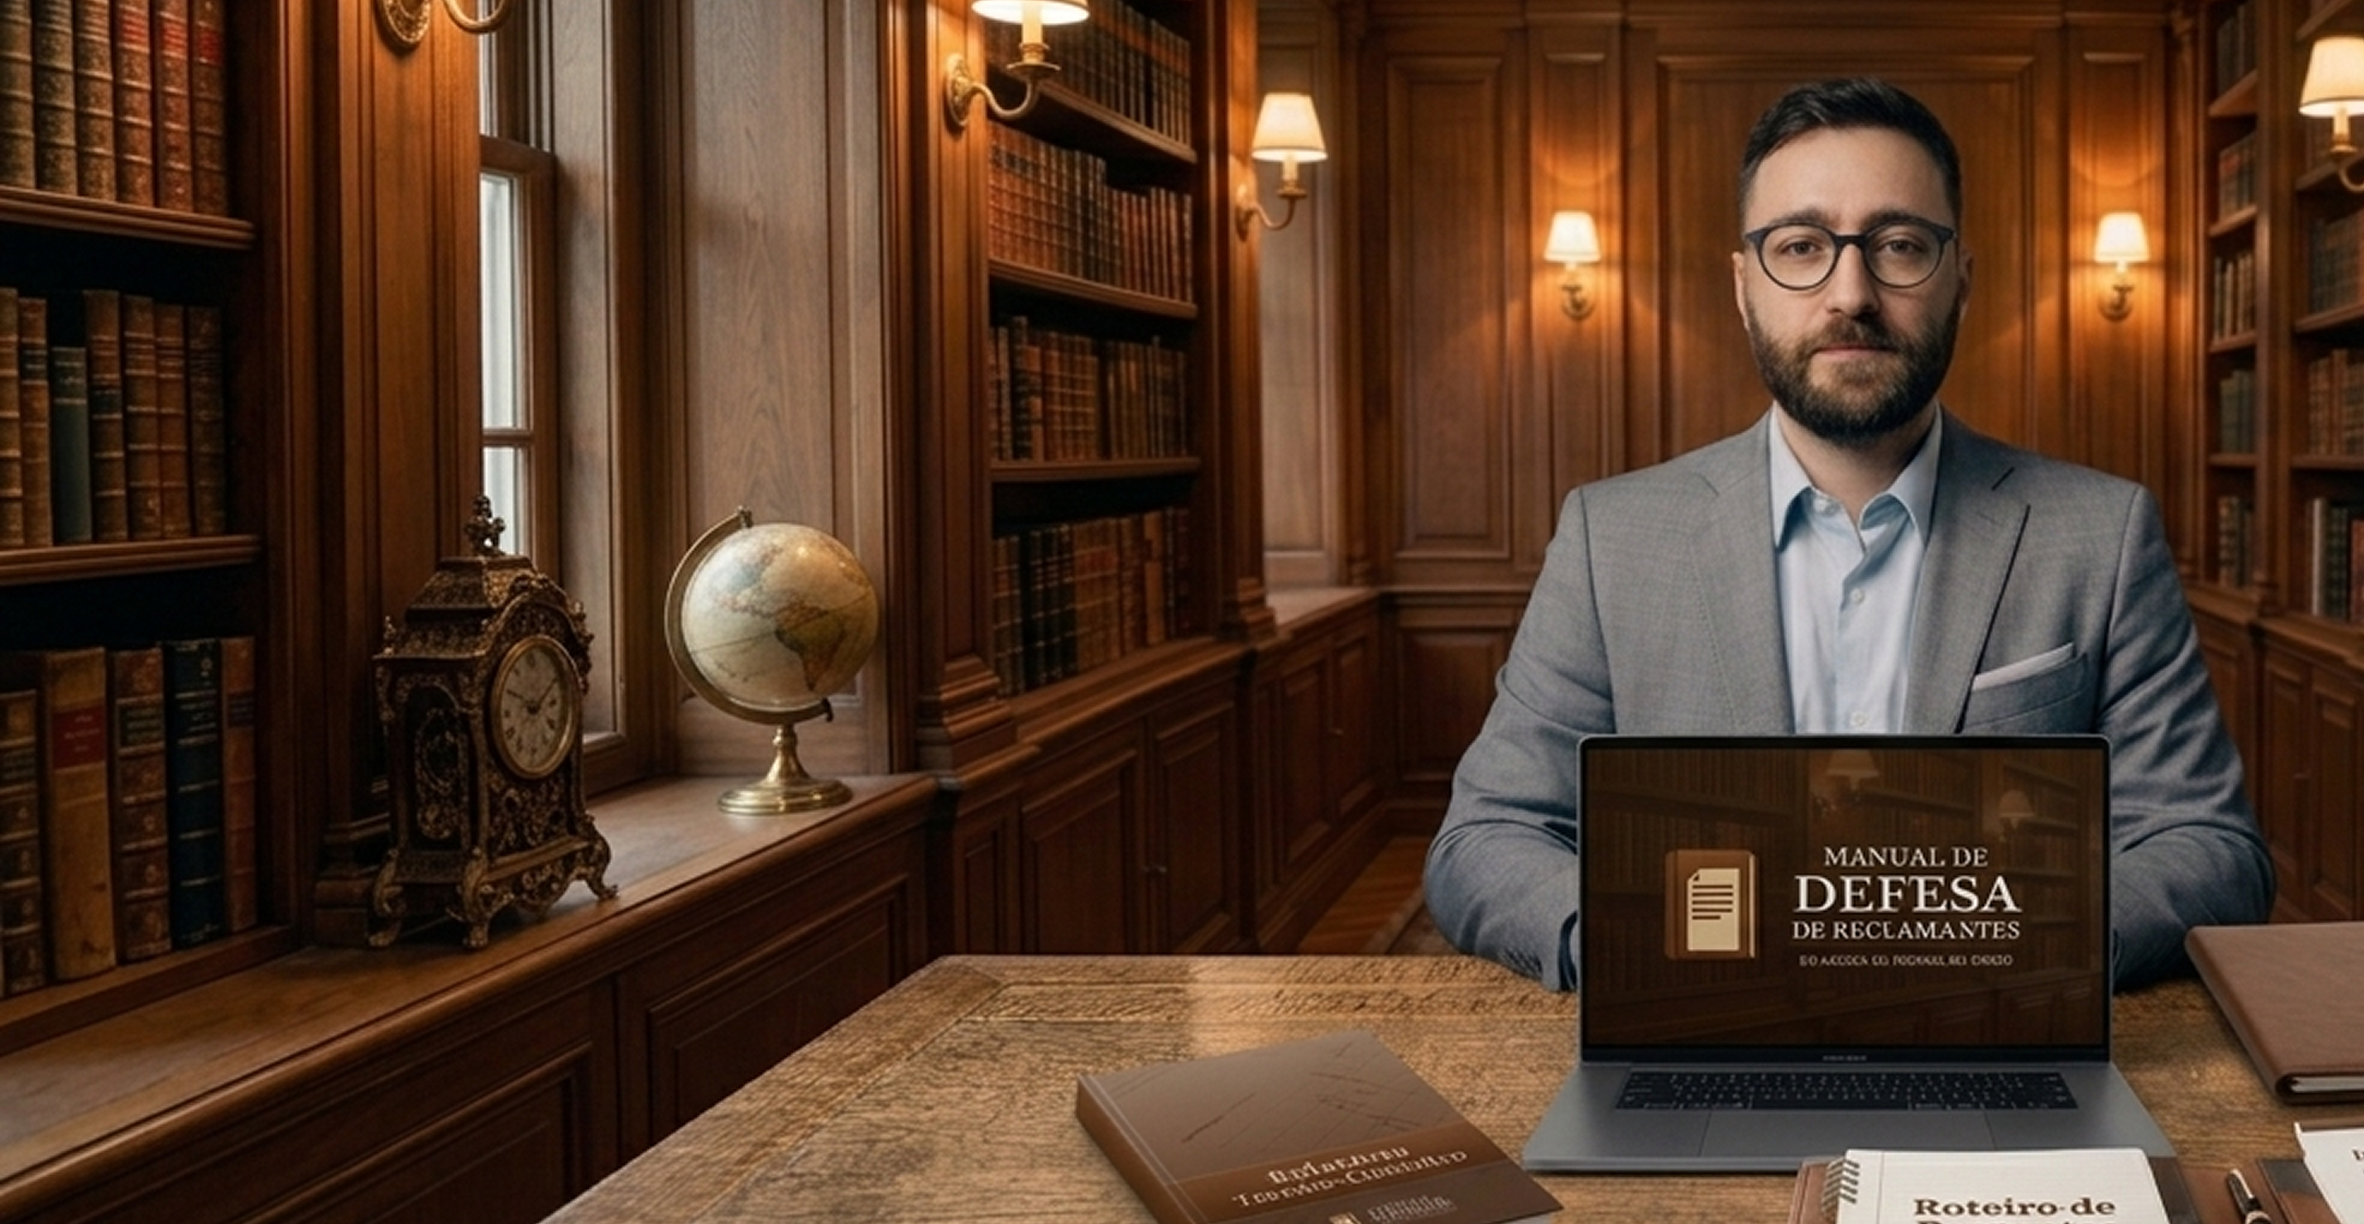
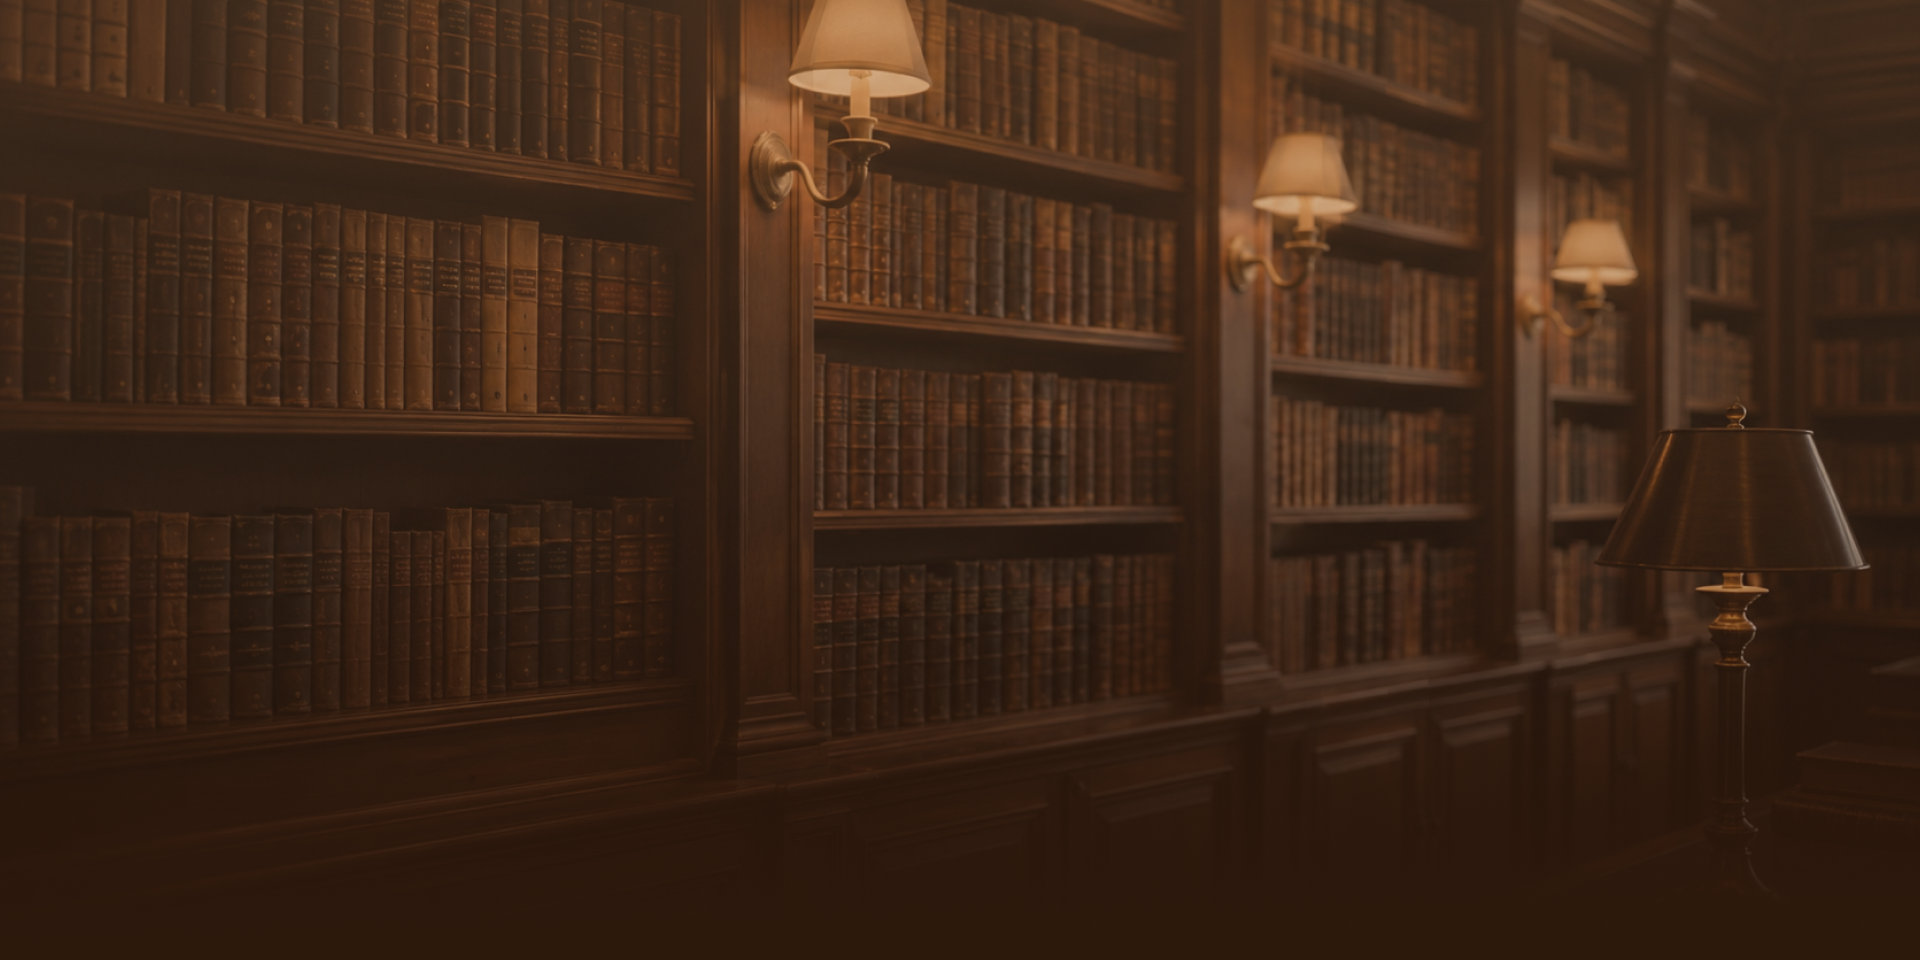
novo

diff --git a/src/App.css b/src/App.css
@@ -95,6 +95,7 @@ body {
   align-items: flex-start;
   padding: 5vw 0 5vw 5vw;
   position: relative;
+  overflow: hidden;
 }
 
 .hero-section::before {
@@ -119,6 +120,17 @@ body {
   display: flex;
   flex-direction: column;
   gap: 20px;
+}
+
+.hero-overlay-image {
+  position: absolute;
+  right: 2vw;
+  top: 17%;
+  z-index: 1;
+  width: min(52.5vw, 700px);
+  max-height: 105vh;
+  object-fit: contain;
+  pointer-events: none;
 }
 
 .hero-logo {
@@ -182,6 +194,7 @@ body {
   font-weight: 700;
   line-height: 1.25;
   color: var(--white);
+  max-width: 90%;
 }
 
 .hero-highlight {
@@ -753,6 +766,12 @@ body {
     background-size: contain;
   }
 
+  .hero-overlay-image {
+    right: -8vw;
+    top: 30%;
+    width: min(78vw, 620px);
+  }
+
   .hero-logo {
     width: 200px;
   }
@@ -821,6 +840,28 @@ body {
     background-image: url('/bg-mobile.png') !important;
     background-size: cover;
     background-position: center top;
+  }
+
+  .hero-section {
+    min-height: 100svh;
+    padding: 8vw 5vw clamp(360px, 72vw, 430px);
+    overflow: hidden;
+  }
+
+  .hero-content {
+    max-width: 100%;
+    z-index: 2;
+  }
+
+  .hero-overlay-image {
+    display: block;
+    left: 50%;
+    right: auto;
+    top: auto;
+    bottom: 24px;
+    width: clamp(350px, 105vw, 500px);
+    max-height: clamp(330px, 64vw, 430px);
+    transform: translateX(-50%);
   }
 
   .top-timer-bar {

diff --git a/src/App.jsx b/src/App.jsx
@@ -90,7 +90,7 @@ function CountdownTimer() {
 function BuyButton() {
   return (
     <a href="#oferta" className="buy-btn">
-      <span>QUERO COMPRAR AGORA COM DESCONTO!</span>
+      <span>QUERO COMPRAR AGORA <br />COM DESCONTO!</span>
       <span className="buy-btn-arrow">↗</span>
     </a>
   )
@@ -128,6 +128,7 @@ export default function App() {
           <BuyButton />
           <PaymentBadge />
         </div>
+        <img src="/hero.webp" alt="" className="hero-overlay-image" aria-hidden="true" />
       </section>
 
       {/* PAINS */}
@@ -189,7 +190,7 @@ export default function App() {
           <BuyButton />
           <PaymentBadge />
         </div>
-      </section>
+              </section>
 
       {/* STEPS */}
       <section className="steps-section">
